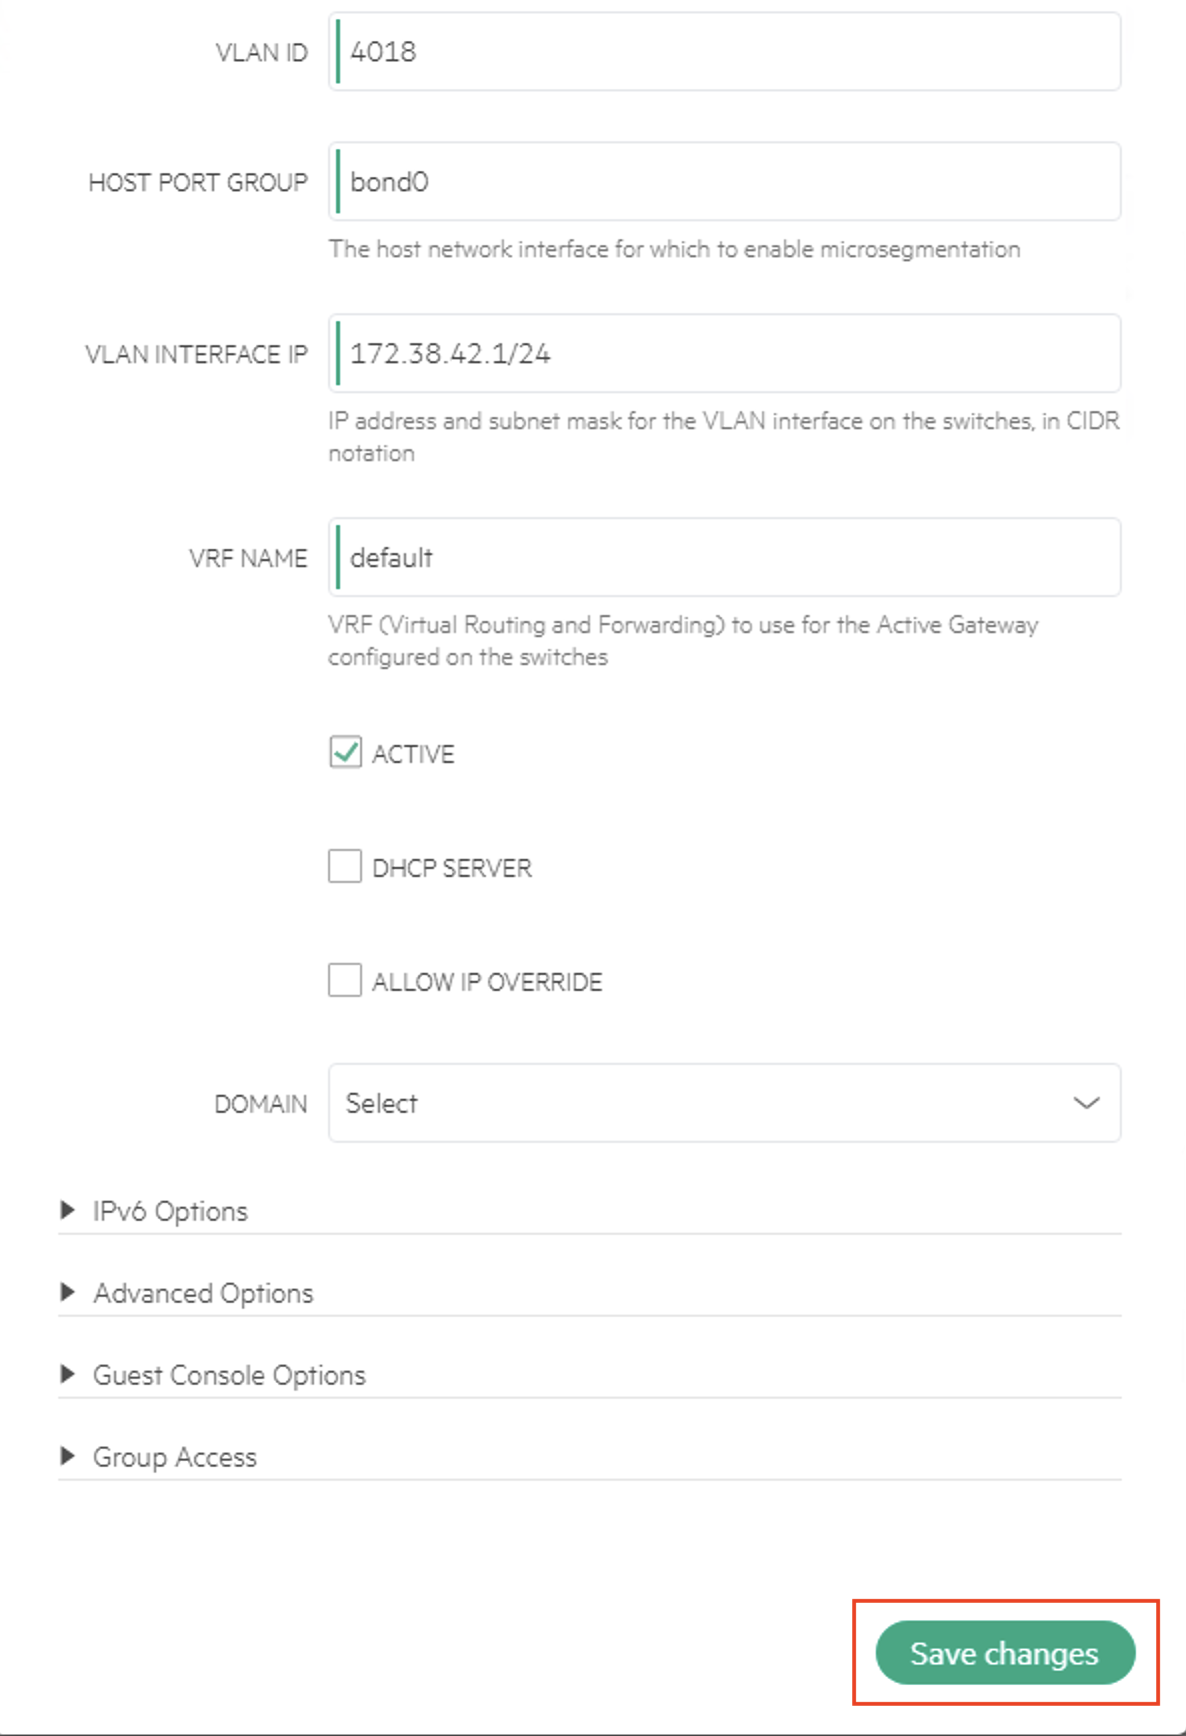
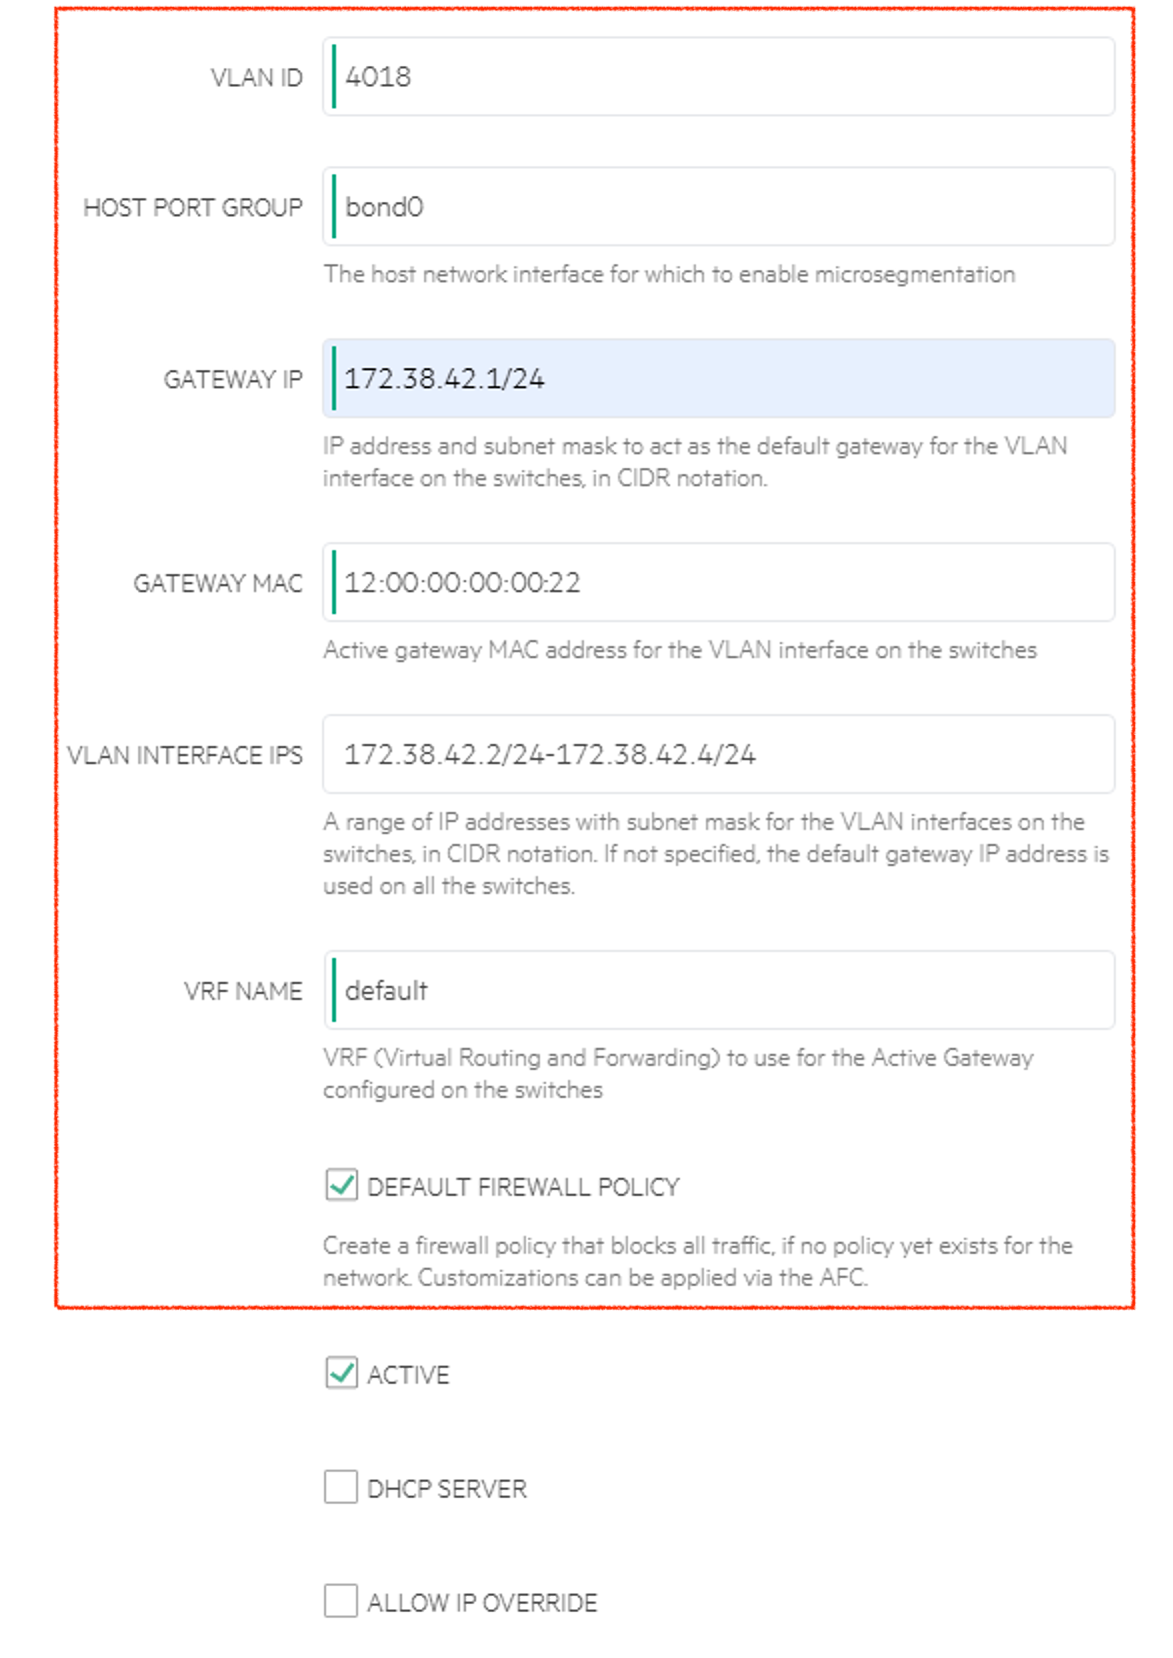
PCCP-3087: Updated UI screenshots for ArubaCxDss

diff --git a/integration_guides/Networking/hpe-arubacx-dss.rst b/integration_guides/Networking/hpe-arubacx-dss.rst
@@ -58,7 +58,7 @@ Adding `HPE Aruba CX DSS` Network Integration
 #. Navigate to |InfNetInt|
 #. Select :guilabel:`+ Add` > Networking > HPE Aruba CX DSS
 
-    .. image:: /images/integration_guides/networking/arubacxdss/addIntegration.png
+    .. image:: /images/integration_guides/networking/arubacxdss/1_add_network_integration.png
       :width: 60%
 
 #. Enter the following details in the ADD NETWORK INTEGRATION form:
@@ -93,19 +93,24 @@ To create an `HPE ANW DSS Port Group` network, follow these steps:
    .. image:: /images/integration_guides/networking/arubacxdss/3.1_add_network.png
      :width: 40%
 
-#. Enter the following details in the CREATE NETWORK form:
+#. Select the Network Server in the CREATE NETWORK form.
 
    .. image:: /images/integration_guides/networking/arubacxdss/3.2_add_network.png
-     :width: 40%
+        :width: 40%
+
+#. Enter the following details in the CREATE NETWORK form.
+
+   .. image:: /images/integration_guides/networking/arubacxdss/3.3_add_network.png
+        :width: 40%
 
 #. Save the network by clicking on :guilabel:`Save changes`.
 
-   .. image:: /images/integration_guides/networking/arubacxdss/3.3_add_network.png
+   .. image:: /images/integration_guides/networking/arubacxdss/3.4_add_network.png
      :width: 40%
 
 #. The network will be created and displayed in the list of networks.
 
-   .. image:: /images/integration_guides/networking/arubacxdss/3.4_network_created.png
+   .. image:: /images/integration_guides/networking/arubacxdss/3.5_network_created.png
      :width: 60%
 
 Delete `HPE ANW DSS Port Group` Network

diff --git a/integration_guides/Networking/networking.rst b/integration_guides/Networking/networking.rst
@@ -1,5 +1,5 @@
-Networking Integrations
-=======================
+Network
+=======
 
 .. toctree::
 
